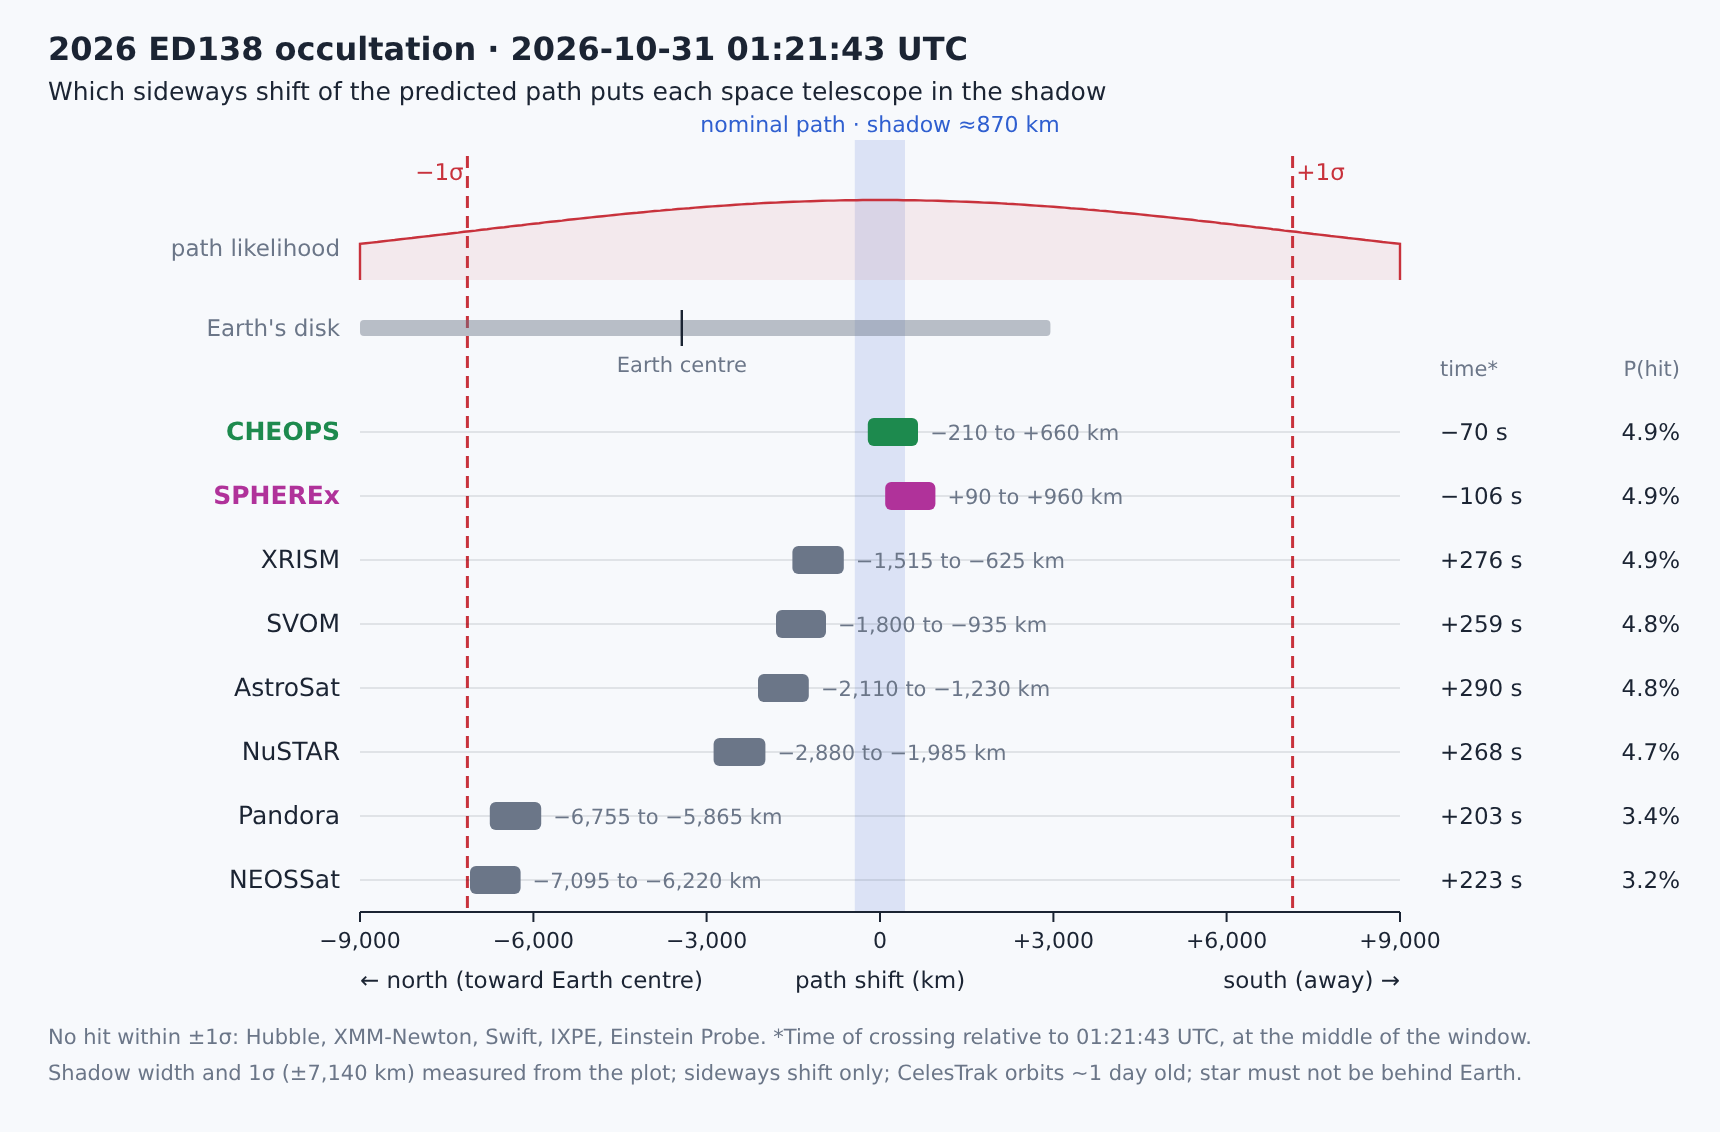
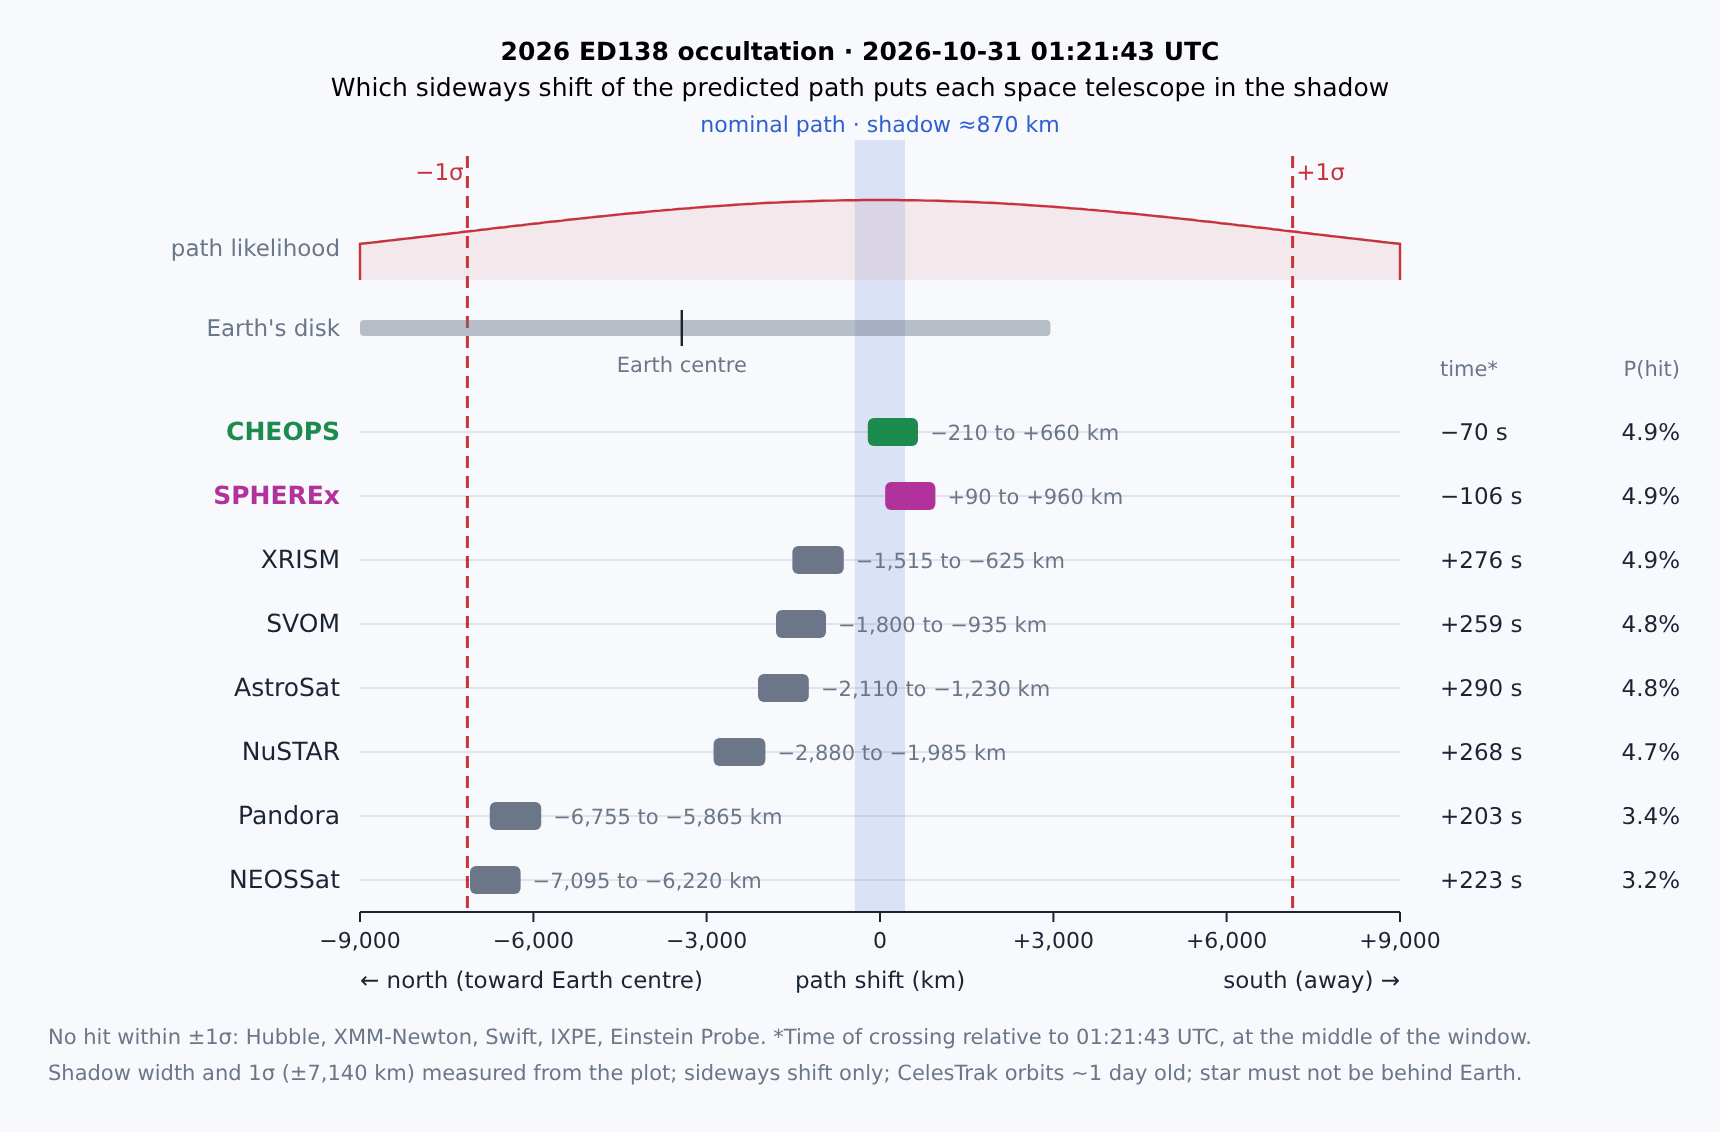
Center diagram title, match subtitle size, set both to black
Claude-Session: https://claude.ai/code/session_01AZ8tB3QzhhfDzvnTecJ9oo

Changed region(s): [[0.0308, 0.0309, 0.8012, 0.0928]]

diff --git a/occultations/2026ED138/hitwindows_svg.py b/occultations/2026ED138/hitwindows_svg.py
@@ -22,8 +22,8 @@ top,dy=200,32; yb=top+dy*len(rows)
 W,H=860,yb+110
 s=[f'<svg xmlns="http://www.w3.org/2000/svg" viewBox="0 0 {W} {H}" width="{W}" height="{H}" role="img" aria-label="Cross-track path shift that would put each space telescope in the 2026 ED138 shadow; only CHEOPS is hit at the nominal path, and each telescope has under 5 percent chance within the plus or minus 1 sigma uncertainty." font-family="DejaVu Sans, Helvetica, Arial, sans-serif" style="color:{FG}">',
 f'<rect width="{W}" height="{H}" fill="{BG}"/>',
-'<text x="24" y="30" font-size="16" font-weight="bold" fill="currentColor">2026 ED138 occultation · 2026-10-31 01:21:43 UTC</text>',
-'<text x="24" y="50" font-size="12.5" fill="currentColor">Which sideways shift of the predicted path puts each space telescope in the shadow</text>']
+f'<text x="{W/2:.0f}" y="30" font-size="12.5" font-weight="bold" text-anchor="middle" fill="#000">2026 ED138 occultation · 2026-10-31 01:21:43 UTC</text>',
+f'<text x="{W/2:.0f}" y="48" font-size="12.5" text-anchor="middle" fill="#000">Which sideways shift of the predicted path puts each space telescope in the shadow</text>']
 # nominal shadow band and sigma lines (behind everything)
 s.append(f'<rect x="{X(-R):.1f}" y="70" width="{X(R)-X(-R):.1f}" height="{yb-70}" fill="{SH}" fill-opacity="0.14"/>')
 s.append(f'<text x="{X(0):.1f}" y="66" font-size="11" text-anchor="middle" fill="{SH}">nominal path · shadow ≈870 km</text>')
